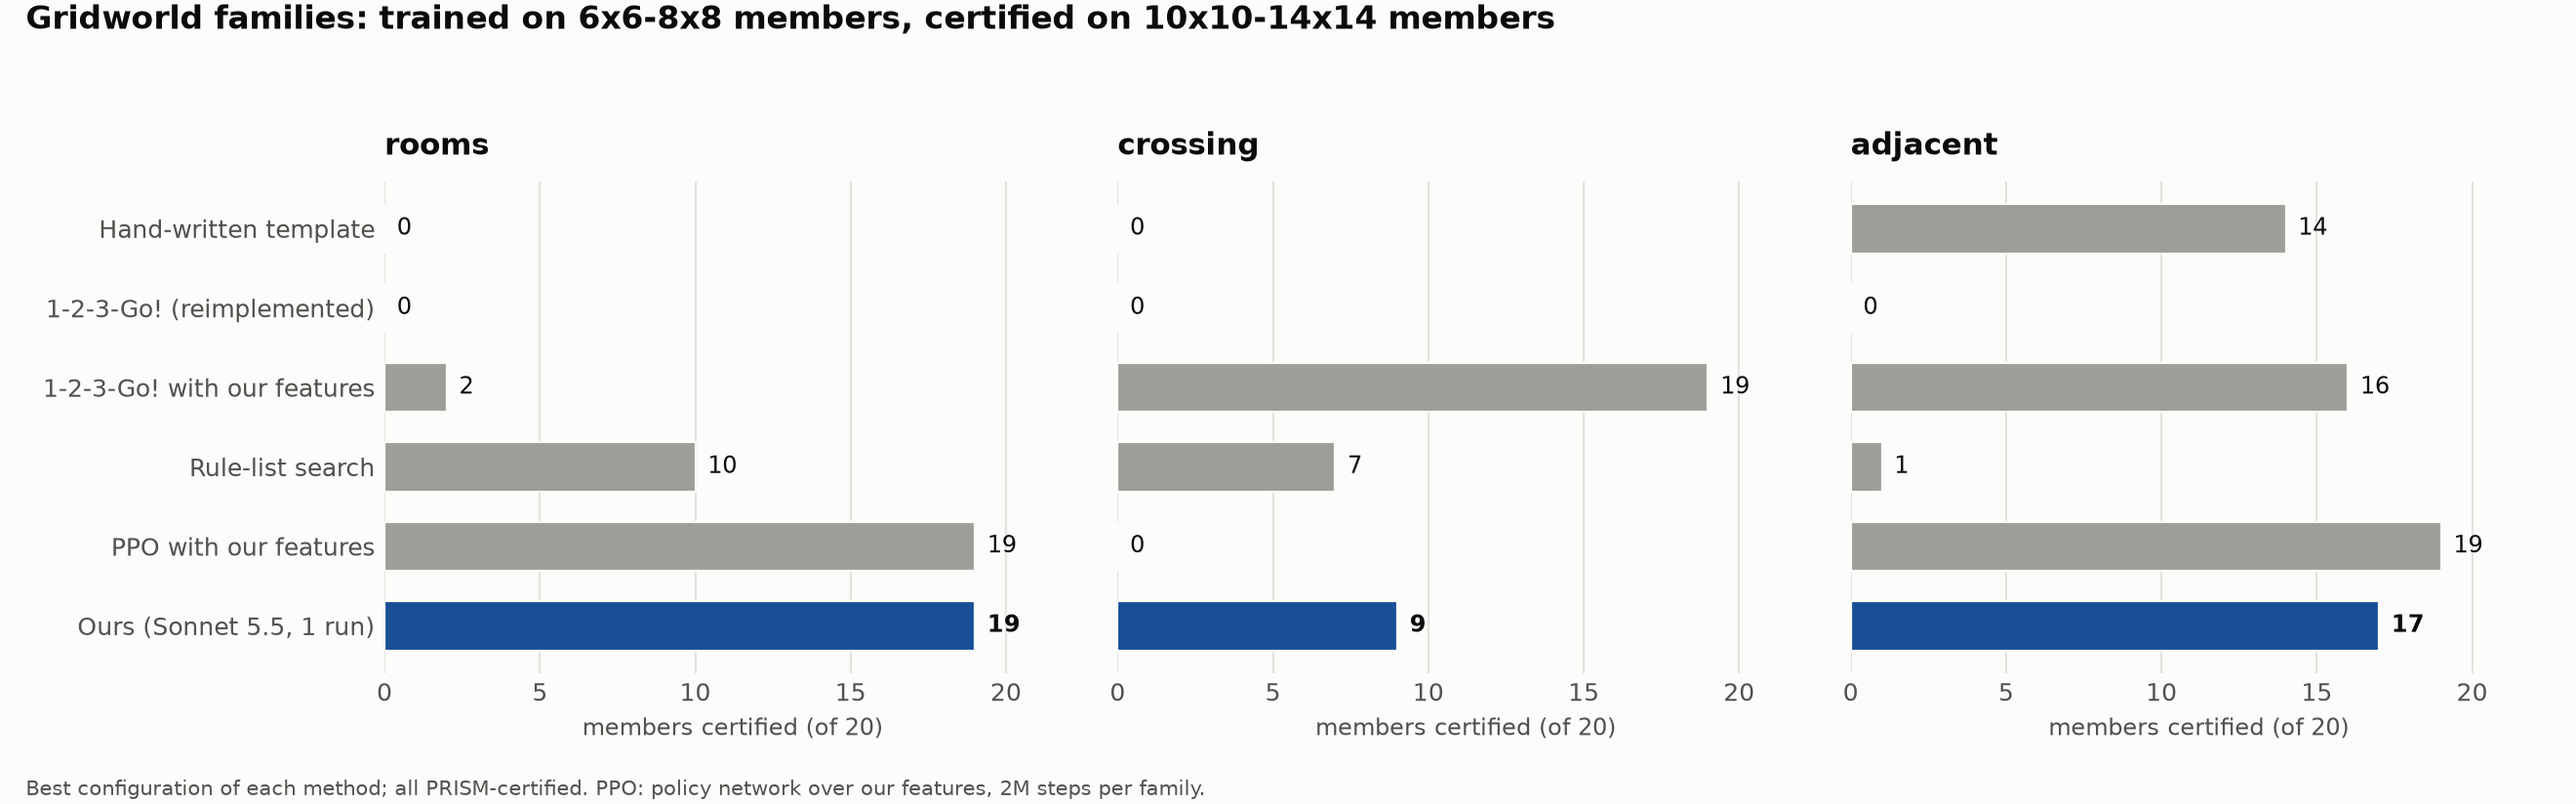
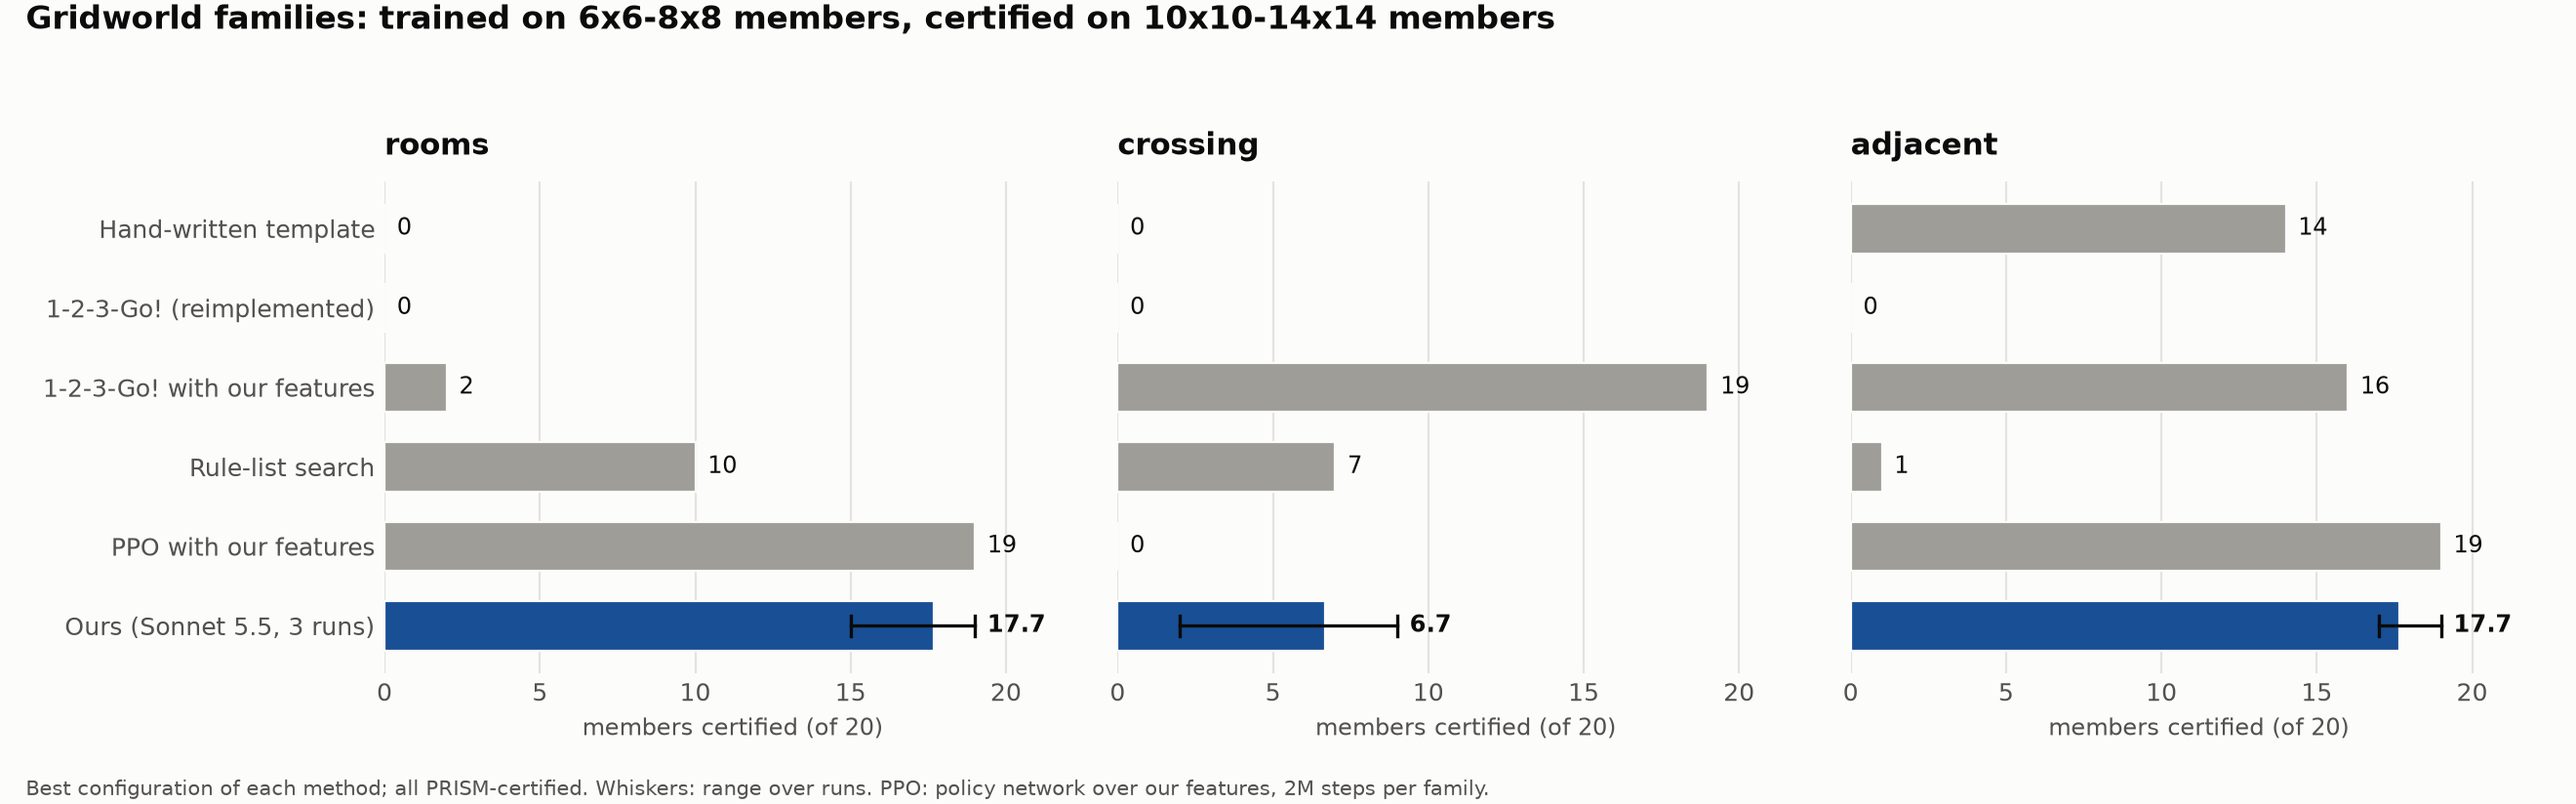
Transfer figures with all three Sonnet runs; library figure (one list on every family vs a run's lists together)

diff --git a/PRISM-Guided-Learning/viz/plot_transfer_results.py b/PRISM-Guided-Learning/viz/plot_transfer_results.py
@@ -40,6 +40,7 @@ class PlotConfig:
     families: Dict[str, Any]
     pacman: Dict[str, Any]
     ablations: Dict[str, Any]
+    library: Dict[str, Any]
     out_dir: str
 
 
@@ -202,6 +203,56 @@ def ablation_figure(cfg: dict, out: Path):
     plt.close(fig)
 
 
+def library_values(m: dict, dataset: str, targets: List[int]):
+    """Per run (LLM condition) or for the baseline's listed sources: (targets certified per rule list, targets
+    certified by at least one of the lists), every target counting whatever group it is in."""
+    if "condition" in m:
+        nums = [transfer_numbers(csv_path(run, dataset), targets)
+                for run in run_dirs(existing_root(m["condition"]), m["condition"])]
+    else:
+        nums = [transfer_numbers(PROJECT / m["csv"], targets, sources=[str(s) for s in m["sources"]])]
+    nums = [n for n in nums if n.get("checked")]
+    return [n["certified"] for n in nums], [n["library"] for n in nums]
+
+
+def library_figure(cfg: dict, out: Path):
+    """Two bars per method: one rule list on every target, and a run's lists used as a library."""
+    targets = parse_ids(cfg["targets"])
+    methods = cfg["methods"]
+    fig, ax = plt.subplots(figsize=(8.4, 0.62 * len(methods) + 1.5), facecolor=SURFACE)
+    y = np.arange(len(methods))[::-1] * 1.0
+    for yi, m in zip(y, methods):
+        per_list, library = library_values(m, cfg["dataset"], targets)
+        for dy, v, light in ((0.17, per_list, True), (-0.17, library, False)):
+            if not v:
+                continue
+            mean = float(np.mean(v))
+            color = (OURS if light else OURS_STRONG) if m.get("ours") else (BASE_LIGHT if light else BASE)
+            ax.barh(yi + dy, mean, height=0.32, color=color, edgecolor=SURFACE, linewidth=0.8, zorder=2)
+            if len(v) > 1 and min(v) != max(v):
+                ax.plot([min(v), max(v)], [yi + dy] * 2, color=INK, linewidth=1.1, zorder=3)
+            ax.text(max(max(v), mean) + len(targets) * 0.015, yi + dy, f"{mean:.1f}" if mean % 1 else f"{mean:.0f}",
+                    va="center", fontsize=8, color=INK, fontweight="bold" if m.get("ours") else "normal")
+    ax.set_yticks(y)
+    ax.set_yticklabels([m["label"] for m in methods], fontsize=8.5, color=INK)
+    ax.set_xlim(0, len(targets) * 1.12)
+    ax.set_xlabel(f"held-out members certified (of {len(targets)}, all families)", fontsize=8.5, color=INK_2)
+    style(ax, "")
+    ax.grid(axis="y", visible=False)
+    ax.grid(axis="x", color=GRID, linewidth=0.8)
+    ax.spines["bottom"].set_visible(False)
+    from matplotlib.patches import Patch
+    ax.legend(handles=[Patch(color=BASE_LIGHT, label="one rule list (mean over lists)"),
+                       Patch(color=BASE, label="a run's lists together (library)")],
+              loc="lower left", bbox_to_anchor=(0, 1.0), ncol=2, fontsize=8, frameon=False)
+    fig.suptitle(cfg["title"], x=0.01, y=0.99, ha="left", fontsize=12, fontweight="bold", color=INK)
+    import textwrap
+    fig.text(0.01, 0.01, textwrap.fill(cfg["note"], 150), fontsize=7.5, color=INK_2, ha="left")
+    fig.tight_layout(rect=(0, 0.05, 1, 0.95))
+    fig.savefig(out, dpi=200)
+    plt.close(fig)
+
+
 def main(argv=None):
     cfg = plot_config(PlotConfig, "plot_transfer_results", argv)
     out_dir = PROJECT / cfg.out_dir
@@ -209,7 +260,8 @@ def main(argv=None):
     for name, fn, section in [("transfer_grid_results.png", grid_figure, cfg.grid),
                               ("transfer_family_results.png", family_figure, cfg.families),
                               ("transfer_pacman_results.png", pacman_figure, cfg.pacman),
-                              ("transfer_ablations.png", ablation_figure, cfg.ablations)]:
+                              ("transfer_ablations.png", ablation_figure, cfg.ablations),
+                              ("transfer_library.png", library_figure, cfg.library)]:
         fn(section, out_dir / name)
         print(out_dir / name)
 
